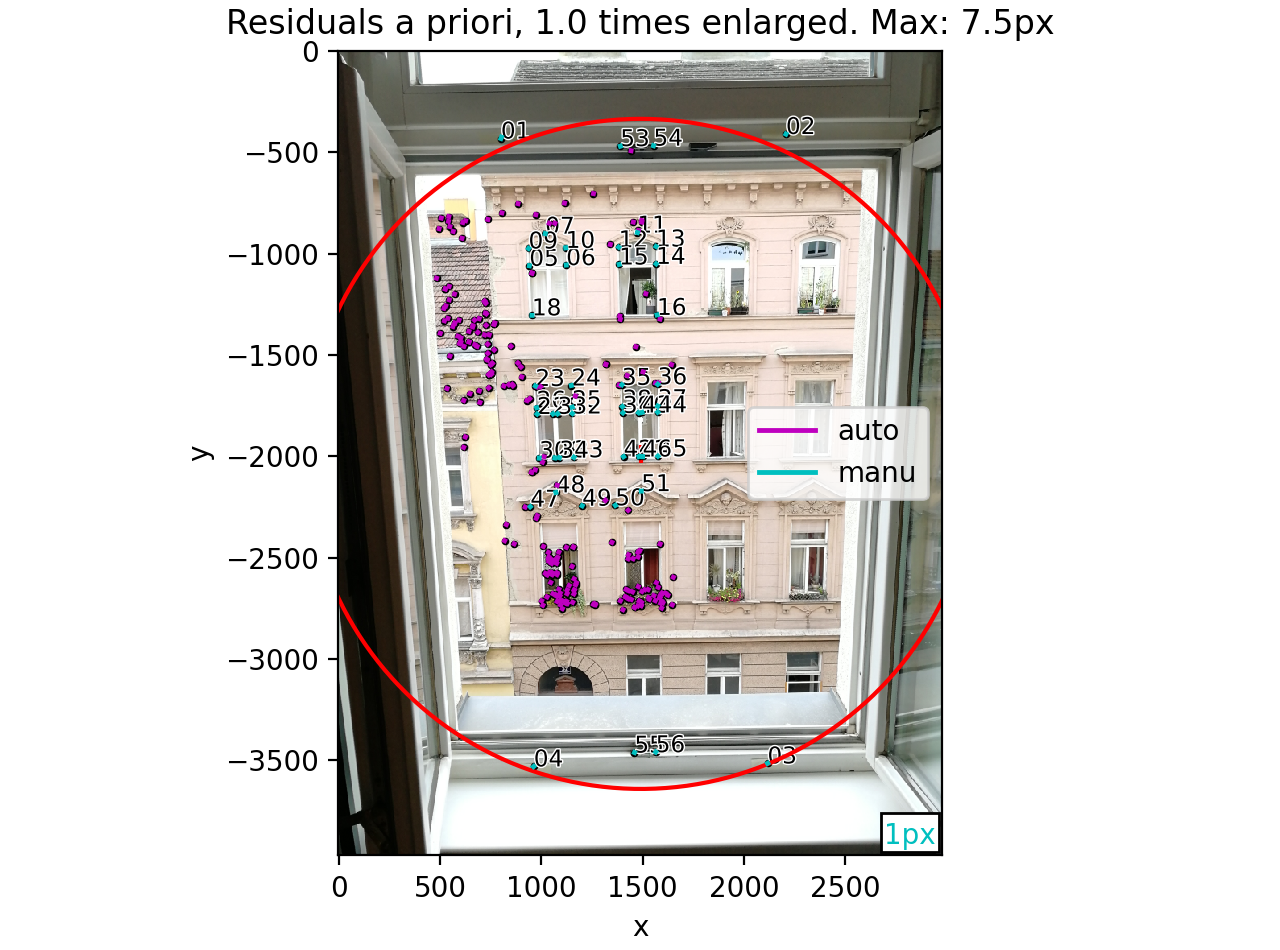
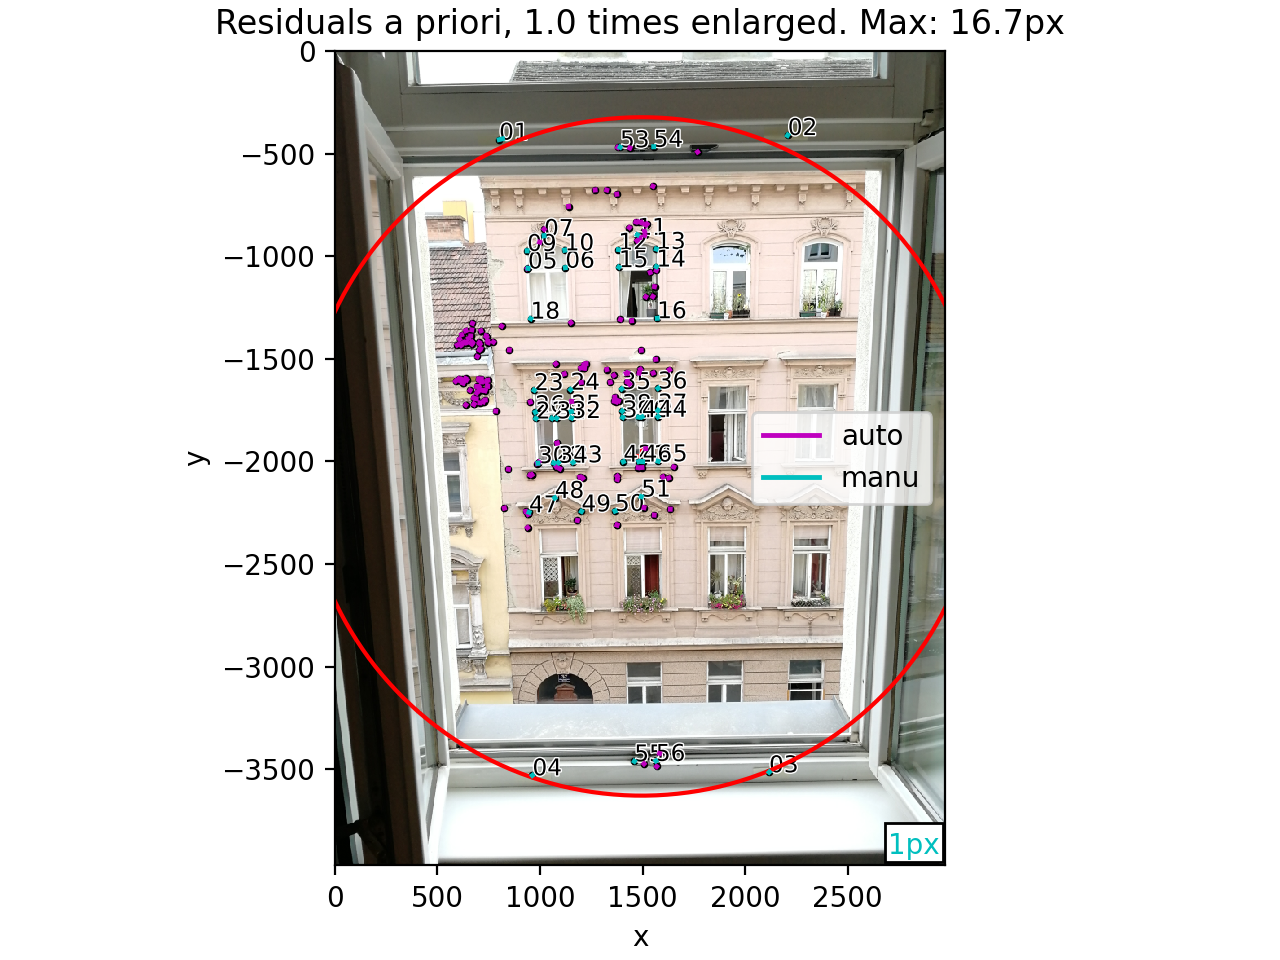
verschiedene Versionen fuer Bericht

Changed region(s): [[0.1562, 0.0, 0.8438, 0.9463]]

diff --git a/plot_distortion.py b/plot_distortion.py
@@ -1,7 +1,7 @@
 import numpy as np
 import matplotlib.pyplot as plt
 
-sensor_size = (2976, 3968)
+sensor_size = (3000, 4000)
 
 x = np.arange(-sensor_size[0]/2, sensor_size[0]/2, 1)
 y = np.arange(-sensor_size[1]/2, sensor_size[1]/2, 1)
@@ -9,20 +9,21 @@ y = np.arange(-sensor_size[1]/2, sensor_size[1]/2, 1)
 xx, yy = np.meshgrid(x, y)
 rho = (xx**2 + yy**2) ** (1/2)
 
-rho0 = (3000 ** 2 + 2000 ** 2) ** (1 / 2)
+rho0 = (2000 ** 2 + 1500 ** 2) ** (1 / 2) /2
 
-# old
-k1, k2, k3, p1, p2 = [+8.65434e-09, -2.94514e-15, +2.99218e-22, -4.57158e-07, -3.01102e-07]
+k1, k2 = (+1.08099e-08, -2.41552e-15)
 
-# k1, k2, p1, p2 = [+8.61915e-09, -7.89278e-16, +2.58932e-08, -3.59427e-07]
+#delta_x_dist = xx * (k1 * (rho - rho0) ** 2 + k2 * (rho - rho0) ** 4 + k3 * (rho - rho0) ** 6) + \
+         #      2 * p1 * xx * yy + p2 * (rho ** 2 + 2 * xx ** 2)
+#delta_y_dist = yy * (k1 * (rho - rho0) ** 2 + k2 * (rho - rho0) ** 4 + k3 * (rho - rho0) ** 6) + \
+         #      + p1 * (rho ** 2 + 2 * yy ** 2) + 2 * p2 * xx * yy
 
-#
-delta_x_dist = xx * (k1 * (rho - rho0) ** 2 + k2 * (rho - rho0) ** 4 + k3 * (rho - rho0) ** 6) + \
-               2 * p1 * xx * yy + p2 * (rho ** 2 + 2 * xx ** 2)
+#NUR radiale Verzeichnung
+delta_x_dist = xx *(k1 * (rho**2-rho0**2) + k2 * (rho**4-rho0**4))
+delta_y_dist = yy * (k1 * (rho**2-rho0**2) + k2 * (rho**4-rho0**4))
 
-# k3 * (rho - rho0) ** 6) + \
-delta_y_dist = yy * (k1 * (rho - rho0) ** 2 + k2 * (rho - rho0) ** 4 + k3 * (rho - rho0) ** 6) + \
-               + p1 * (rho ** 2 + 2 * yy ** 2) + 2 * p2 * xx * yy
+#delta_x_dist = xx*(k1*(rho**2-rho0**2) + k2 * (rho ** 4-rho0**2)) + 2 * p1 * xx * yy + p2 * (rho ** 2 + 2 * xx ** 2)
+#delta_y_dist = yy*(k1*(rho**2-rho0**2) + k2 * (rho ** 4-rho0**2)) + p1 * (rho ** 2 + 2 * yy ** 2) + 2 * p2 * xx * yy
 
 # plt.matshow(delta_x_dist, cmap="PRGn")
 # plt.colorbar()

diff --git a/plot_ior_correlation.py b/plot_ior_correlation.py
@@ -5,13 +5,13 @@ ior_correlation = np.load('data2/ior_correlation.npy')
 
 fig = plt.figure()
 ax = fig.add_subplot(111)
-cax = ax.matshow(ior_correlation, cmap='RdBu')
+cax = ax.matshow(ior_correlation, vmin=-1, vmax=1, cmap='RdBu')
 fig.colorbar(cax)
 
 for (i, j), z in np.ndenumerate(ior_correlation):
     ax.text(j, i, '{:0.2f}'.format(z), ha='center', va='center')
 
-labels = ['x0', 'y0', 'c', 'k1', 'k2', 'k3', 'p1', 'p2']
+labels = ['x0', 'y0', 'c', 'k1', 'k2', 'p1', 'p2']
 
 ax.set_xticklabels(['']+labels)
 ax.set_yticklabels(['']+labels)
